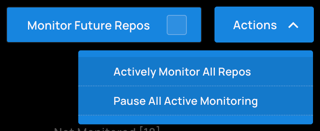
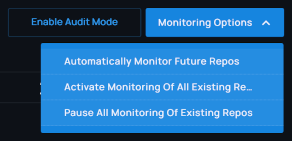
add documentation for audit mode (#125)
This PR adds documentation for the recently added GitHub app audit mode
feature. The UI style was updated since the last time this feature was
documented so I updated other screenshots of the same page so they would
be consistent.

Closes #124 

## Checklist

- [x] Does this PR have an associated issue (i.e., `closes #<issueNum>`
in description above)?
- [x] Have you ensured that you have met the expected acceptance
criteria?

diff --git a/docs/integrations/github_app.md b/docs/integrations/github_app.md
@@ -124,6 +124,20 @@ The results will be visible in the `Project` menu view for the selected project 
 
 ![GitHub app on-demand analysis results](../../assets/gh_app_on-demand_analysis.png)
 
+### Audit Mode
+
+Enabling audit mode for an installation of the Phylum GitHub app temporarily disables pull request protection. This can be useful to minimize disruption in cases where developers are working on repositories at the same time as Phylum is being configured.
+
+![GitHub app audit mode button](../../assets/gh_app_audit_mode.png)
+
+When audit mode is enabled, Phylum still analyzes pull requests and results are still visible in the Phylum UI. However:
+
+- No comments are added to pull requests.
+- The commit check status for policy violations changes from failed to neutral, allowing the PR to be merged.
+- A message about audit mode being enabled is appended to the commit check details for commits that would have otherwise failed.
+
+![GitHub check result details showing a neutral result because of audit mode](../../assets/gh_app_check_details_audit_neutral.png)
+
 ## FAQ
 
 ### I activated monitoring, but it didn't run a scan. How do I get analysis results?
